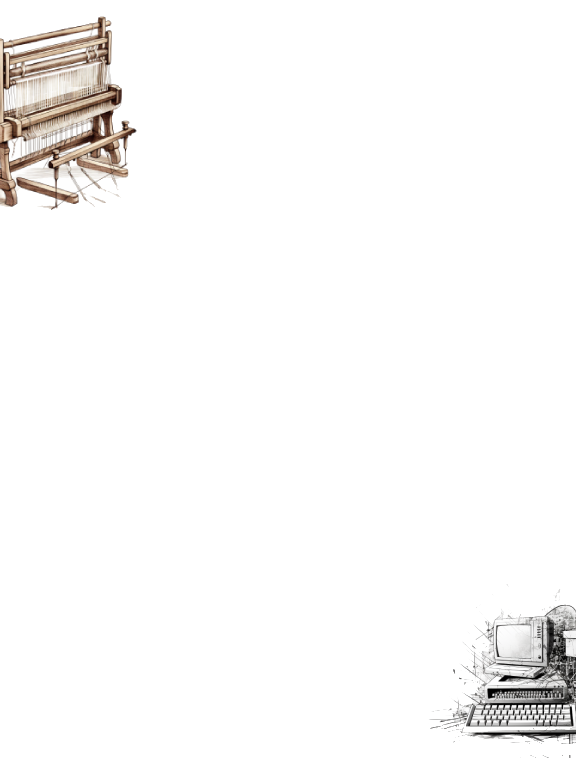
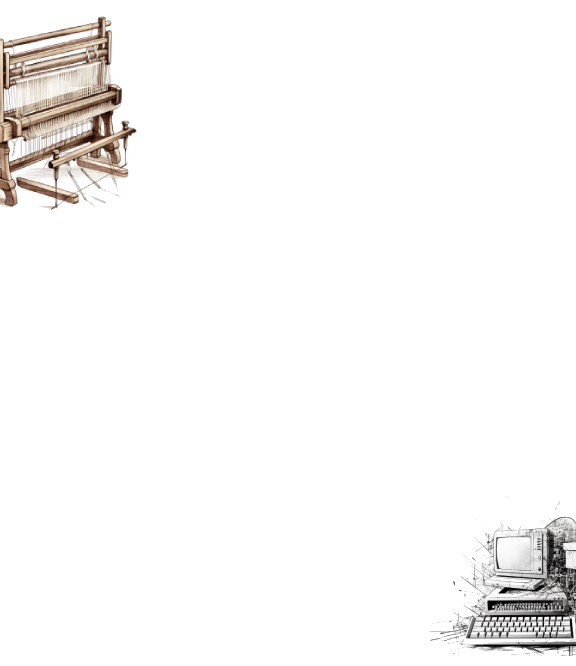
nft

Changed region(s): [[0.0, 0.0, 0.25, 0.3303], [0.75, 0.7808, 1.0, 0.991]]

diff --git a/src/components/NFT/NFT.scss b/src/components/NFT/NFT.scss
@@ -13,7 +13,7 @@ $black: #272727;
   position: relative;
   background-image: url("../../../public/nft.png"), url("../../../public/nft-send.png");
   background-repeat: no-repeat;
-  background-position-y: 0%, 50%;
+  background-position-y: 0%, 40%;
   background-size: contain;
 
 }

diff --git a/src/components/Gamosa/Gamosa.scss b/src/components/Gamosa/Gamosa.scss
@@ -15,7 +15,6 @@ $black: #272727;
   background-repeat: no-repeat;
   background-position-y: 0%, 35%;
   background-size: contain;
-
 }
 
 .gamosa-h1 {
